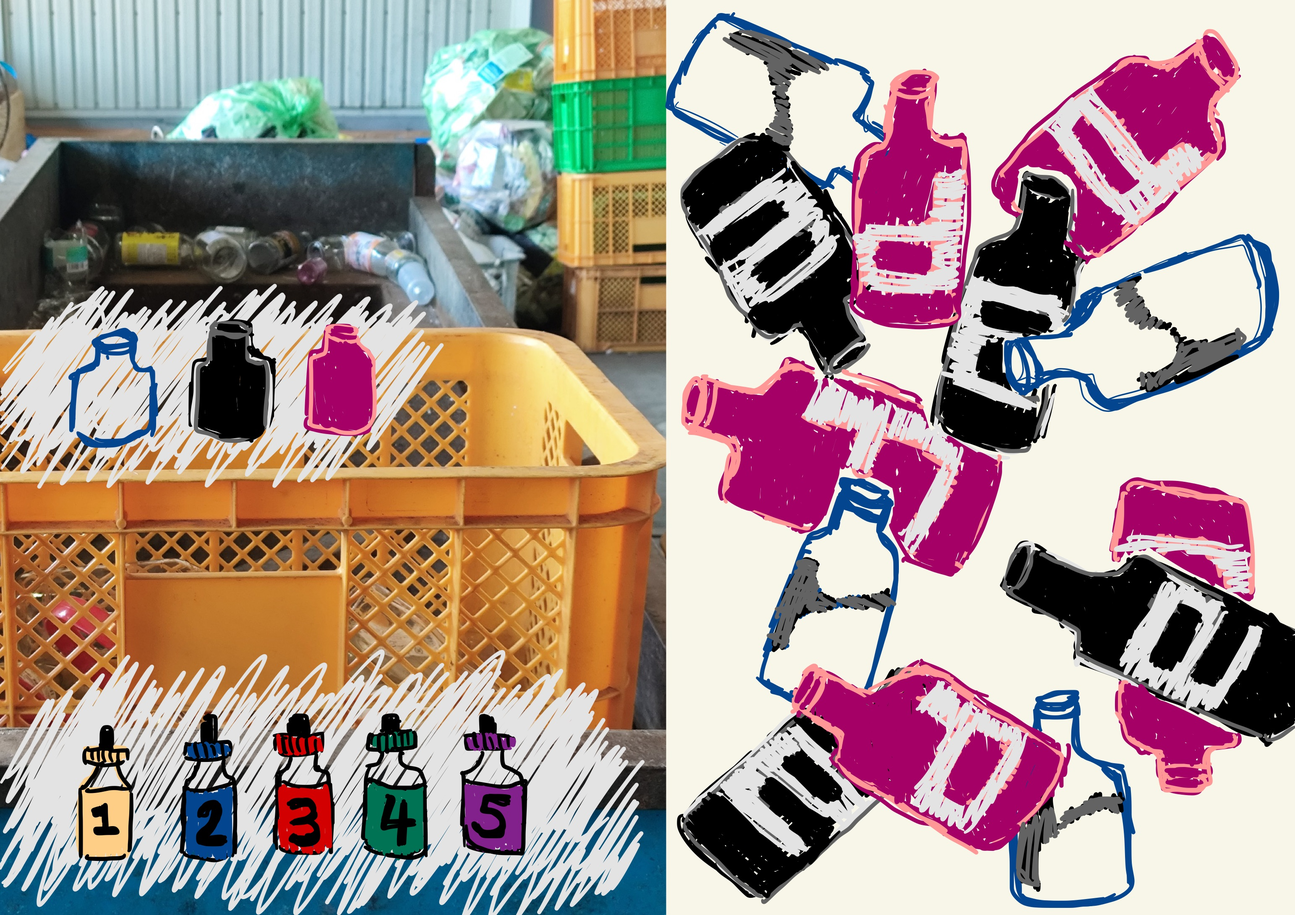
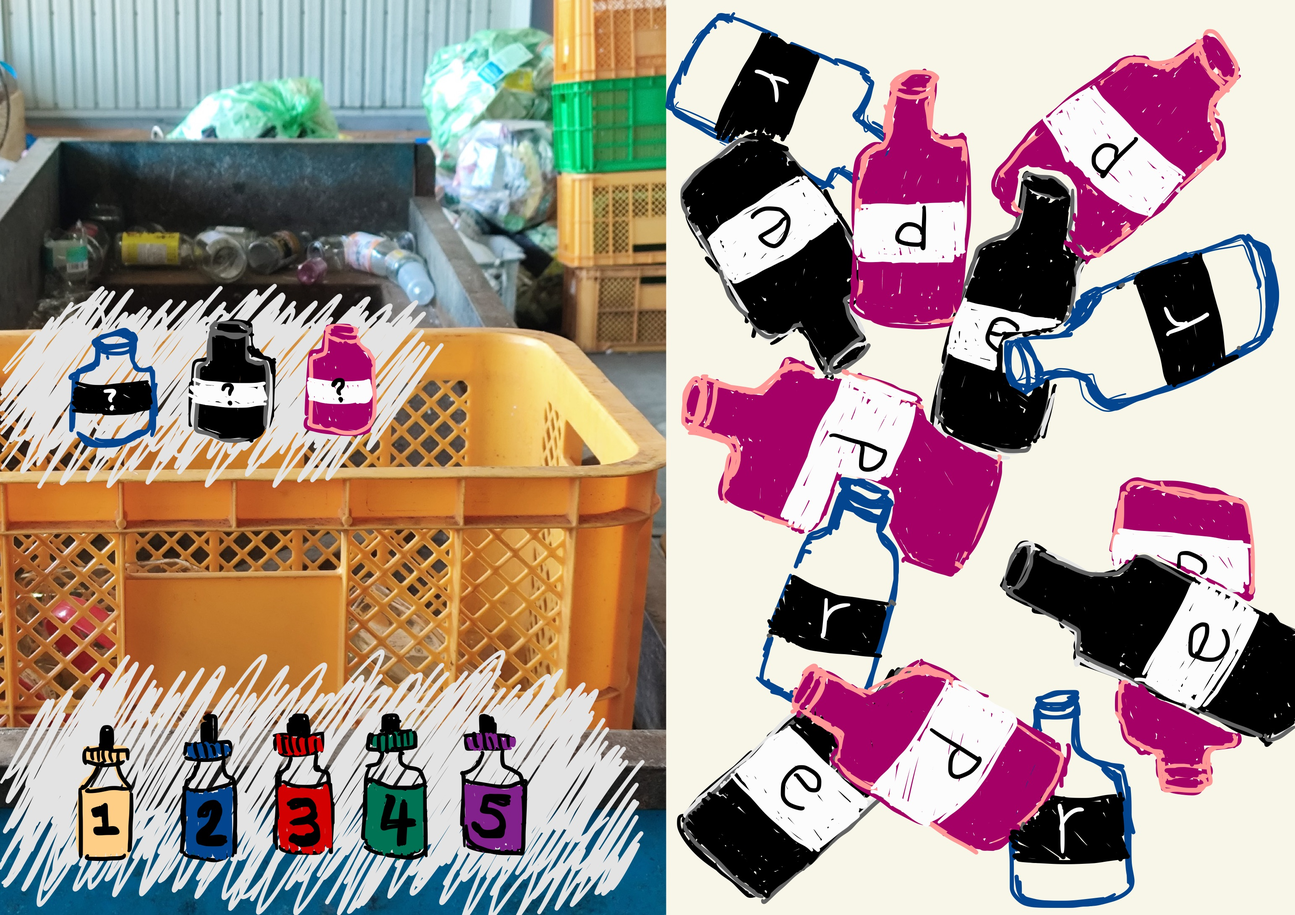
fix: images and strings

diff --git a/main.py b/main.py
@@ -63,20 +63,19 @@ def get_image(
 
     def iter_file():
         path = f"images/{fid}.jpg"
-        with open(path) as f:
-            image = Image.open(f)
-            file_size = os.path.getsize(path)
+        image = Image.open(path)
+        file_size = os.path.getsize(path)
 
-            image_file = BytesIO()
-            if not is_preview or file_size < MAX_PREVIEW_SIZE:
-                image.save(image_file, format="JPEG")
-            else:
-                rate = math.sqrt(MAX_PREVIEW_SIZE / file_size)
-                image.thumbnail((int(image.width * rate), int(image.height * rate)))
-                image.save(image_file, format="JPEG")
-            
-            image_file.seek(0)
-            yield from image_file
+        image_file = BytesIO()
+        if not is_preview or file_size < MAX_PREVIEW_SIZE:
+            image.save(image_file, format="JPEG")
+        else:
+            rate = math.sqrt(MAX_PREVIEW_SIZE / file_size)
+            image.thumbnail((int(image.width * rate), int(image.height * rate)))
+            image.save(image_file, format="JPEG")
+        
+        image_file.seek(0)
+        yield from image_file
 
     return StreamingResponse(iter_file(), media_type="image/jpeg")
 
@@ -137,7 +136,7 @@ def handle_message(event: MessageEvent):
                 )
             )
             users_state[user_id] = 2
-        elif users_state[user_id] == 2 and message == strings.ANSWER_2:
+        elif users_state[user_id] == 2 and message.isalpha() and message.lower() == strings.ANSWER_2:
             api_instance.reply_message(
                 ReplyMessageRequest(
                     replyToken=reply_token,
@@ -167,7 +166,7 @@ def handle_message(event: MessageEvent):
                 )
             )
             users_state[user_id] = 4
-        elif users_state[user_id] == 4 and message == strings.ANSWER_4:
+        elif users_state[user_id] == 4 and message.isalpha() and message.lower() == strings.ANSWER_4:
             api_instance.reply_message(
                 ReplyMessageRequest(
                     replyToken=reply_token,

diff --git a/strings.py b/strings.py
@@ -1,4 +1,4 @@
-QUESTION_1 = "初來乍到大崎町，作為全日本資源回收率最高的城鎮，我們現在在當地的資源回收工廠，這邊有好多玻璃瓶要分類，不過上面的標籤似乎還沒用藥水去除乾淨，你能夠一起幫忙找到要使用幾號藥水嗎？（請輸入【O號藥水】，O請填入阿拉伯數字，若回答正確會進入下一題）"
+QUESTION_1 = "初來乍到大崎町，作為全日本資源回收率最高的城鎮，我們現在在當地的資源回收工廠，這邊有好多玻璃瓶要分類，不過上面的標籤似乎還沒用藥水去除乾淨，你能夠一起幫忙找到要使用幾號藥水嗎？（請輸入藥水的編號，若回答正確會進入下一題）"
 RESPONSE_1 = """太好了！瓶罐上的標籤紙都去除乾淨了！
 把玻璃瓶分成透明、深色、其他顏色總共3類，這樣清理分類好的瓶子就可以作為資源給需要的廠商去循環利用~ 謝謝%s的幫忙！(*´∀`)~♥"""
 QUESTION_2 = "體驗完資源回收工作，接著我們來到當地的宮園村社區，了解到這裡的居民們集結起來一起碳化竹林、收穫竹筍的故事，竹筍真是美味呢！咦，餐桌上擺好的餐點似乎透漏著什麼訊息？（請輸入五個小寫英文字母）"
@@ -27,9 +27,9 @@ ENDING = """本遊戲到此結束，感謝您的體驗！
 線上成果展連結：https://sites.google.com/view/113-1outcome
 (線上網站可能尚未開放，請耐心等候！)
 
-若想重新開始遊戲，請輸入【願意】！"""
+若想重新開始遊戲，請輸入任意文字！"""
 
-ANSWER_1 = "3號藥水"
+ANSWER_1 = "3"
 ANSWER_2 = "menma"
 ANSWER_3 = "1914"
 ANSWER_4 = "kagoshima"
